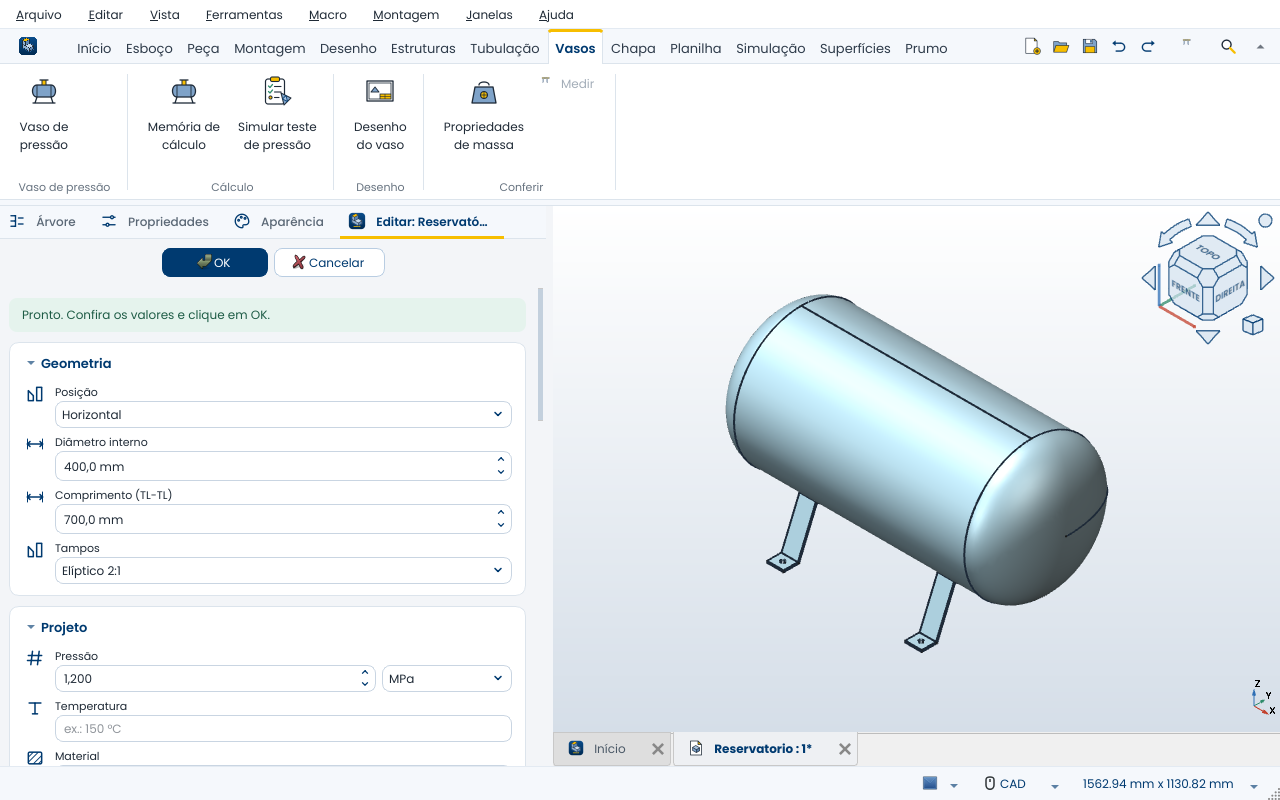
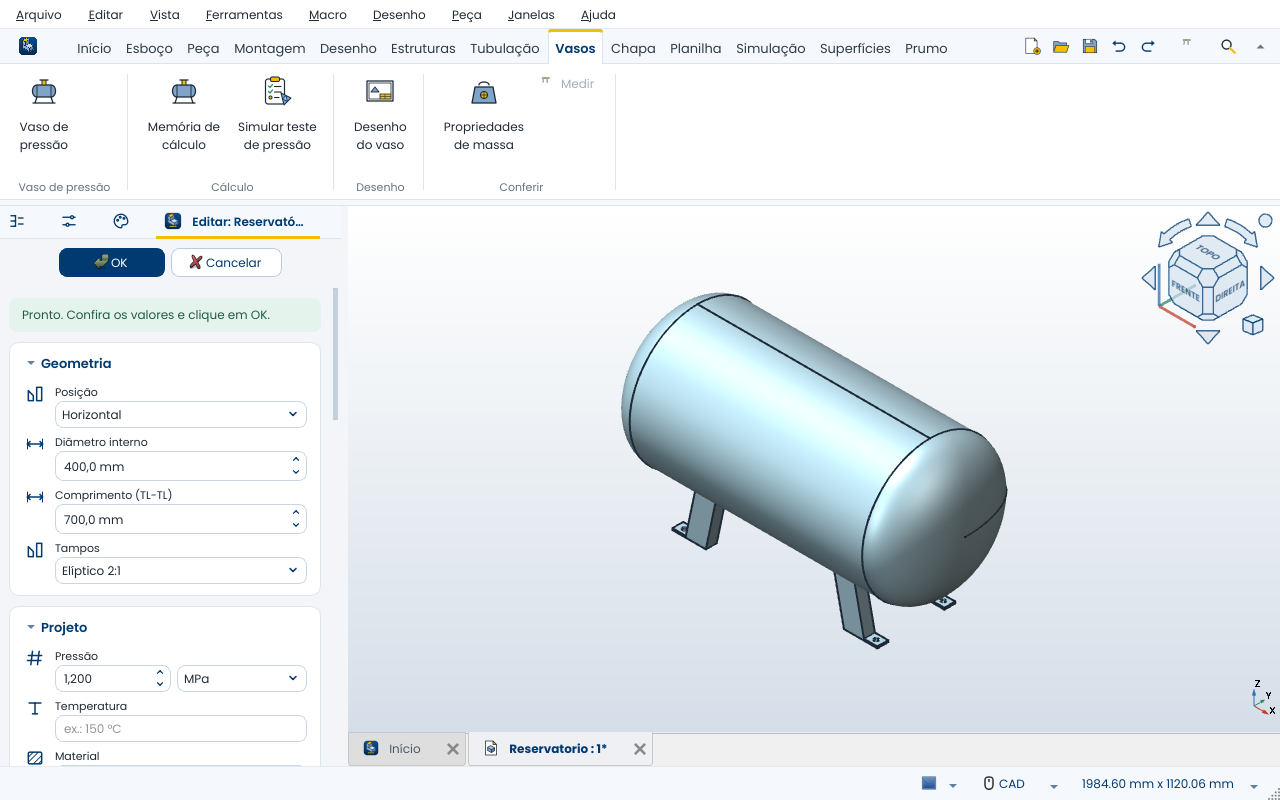
Imagem dos pés de chapa; novidades
Claude-Session: https://claude.ai/code/session_01B3niYAtBQNFewtY3ak65Tq

diff --git a/NOVIDADES.md b/NOVIDADES.md
@@ -60,7 +60,8 @@ O que mudou em cada versão, da mais nova para a mais antiga. Os arquivos para b
   - **Folha ABNT com arranjos prontos:** frontal, superior, lateral e isométrica; frontal, lateral e
     isométrica; frontal e superior; frontal e isométrica; ou só a isométrica.
 - **Vasos: pés de chapa, como nos reservatórios de compressor.** Em cada posição, uma tira de chapa dobrada
-  (4,75 mm) abraça o fundo do costado, desce aberta para os lados e termina em sapatas com furo de fixação.
+  (4,75 mm) em perfil U, um em cada canto, abertos para as pontas do vaso, recortados no costado e com
+  sapata e furo de fixação.
   Entra também no teste de pressão por elementos finitos, com o apoio nas sapatas.
 
 ### Mudanças
